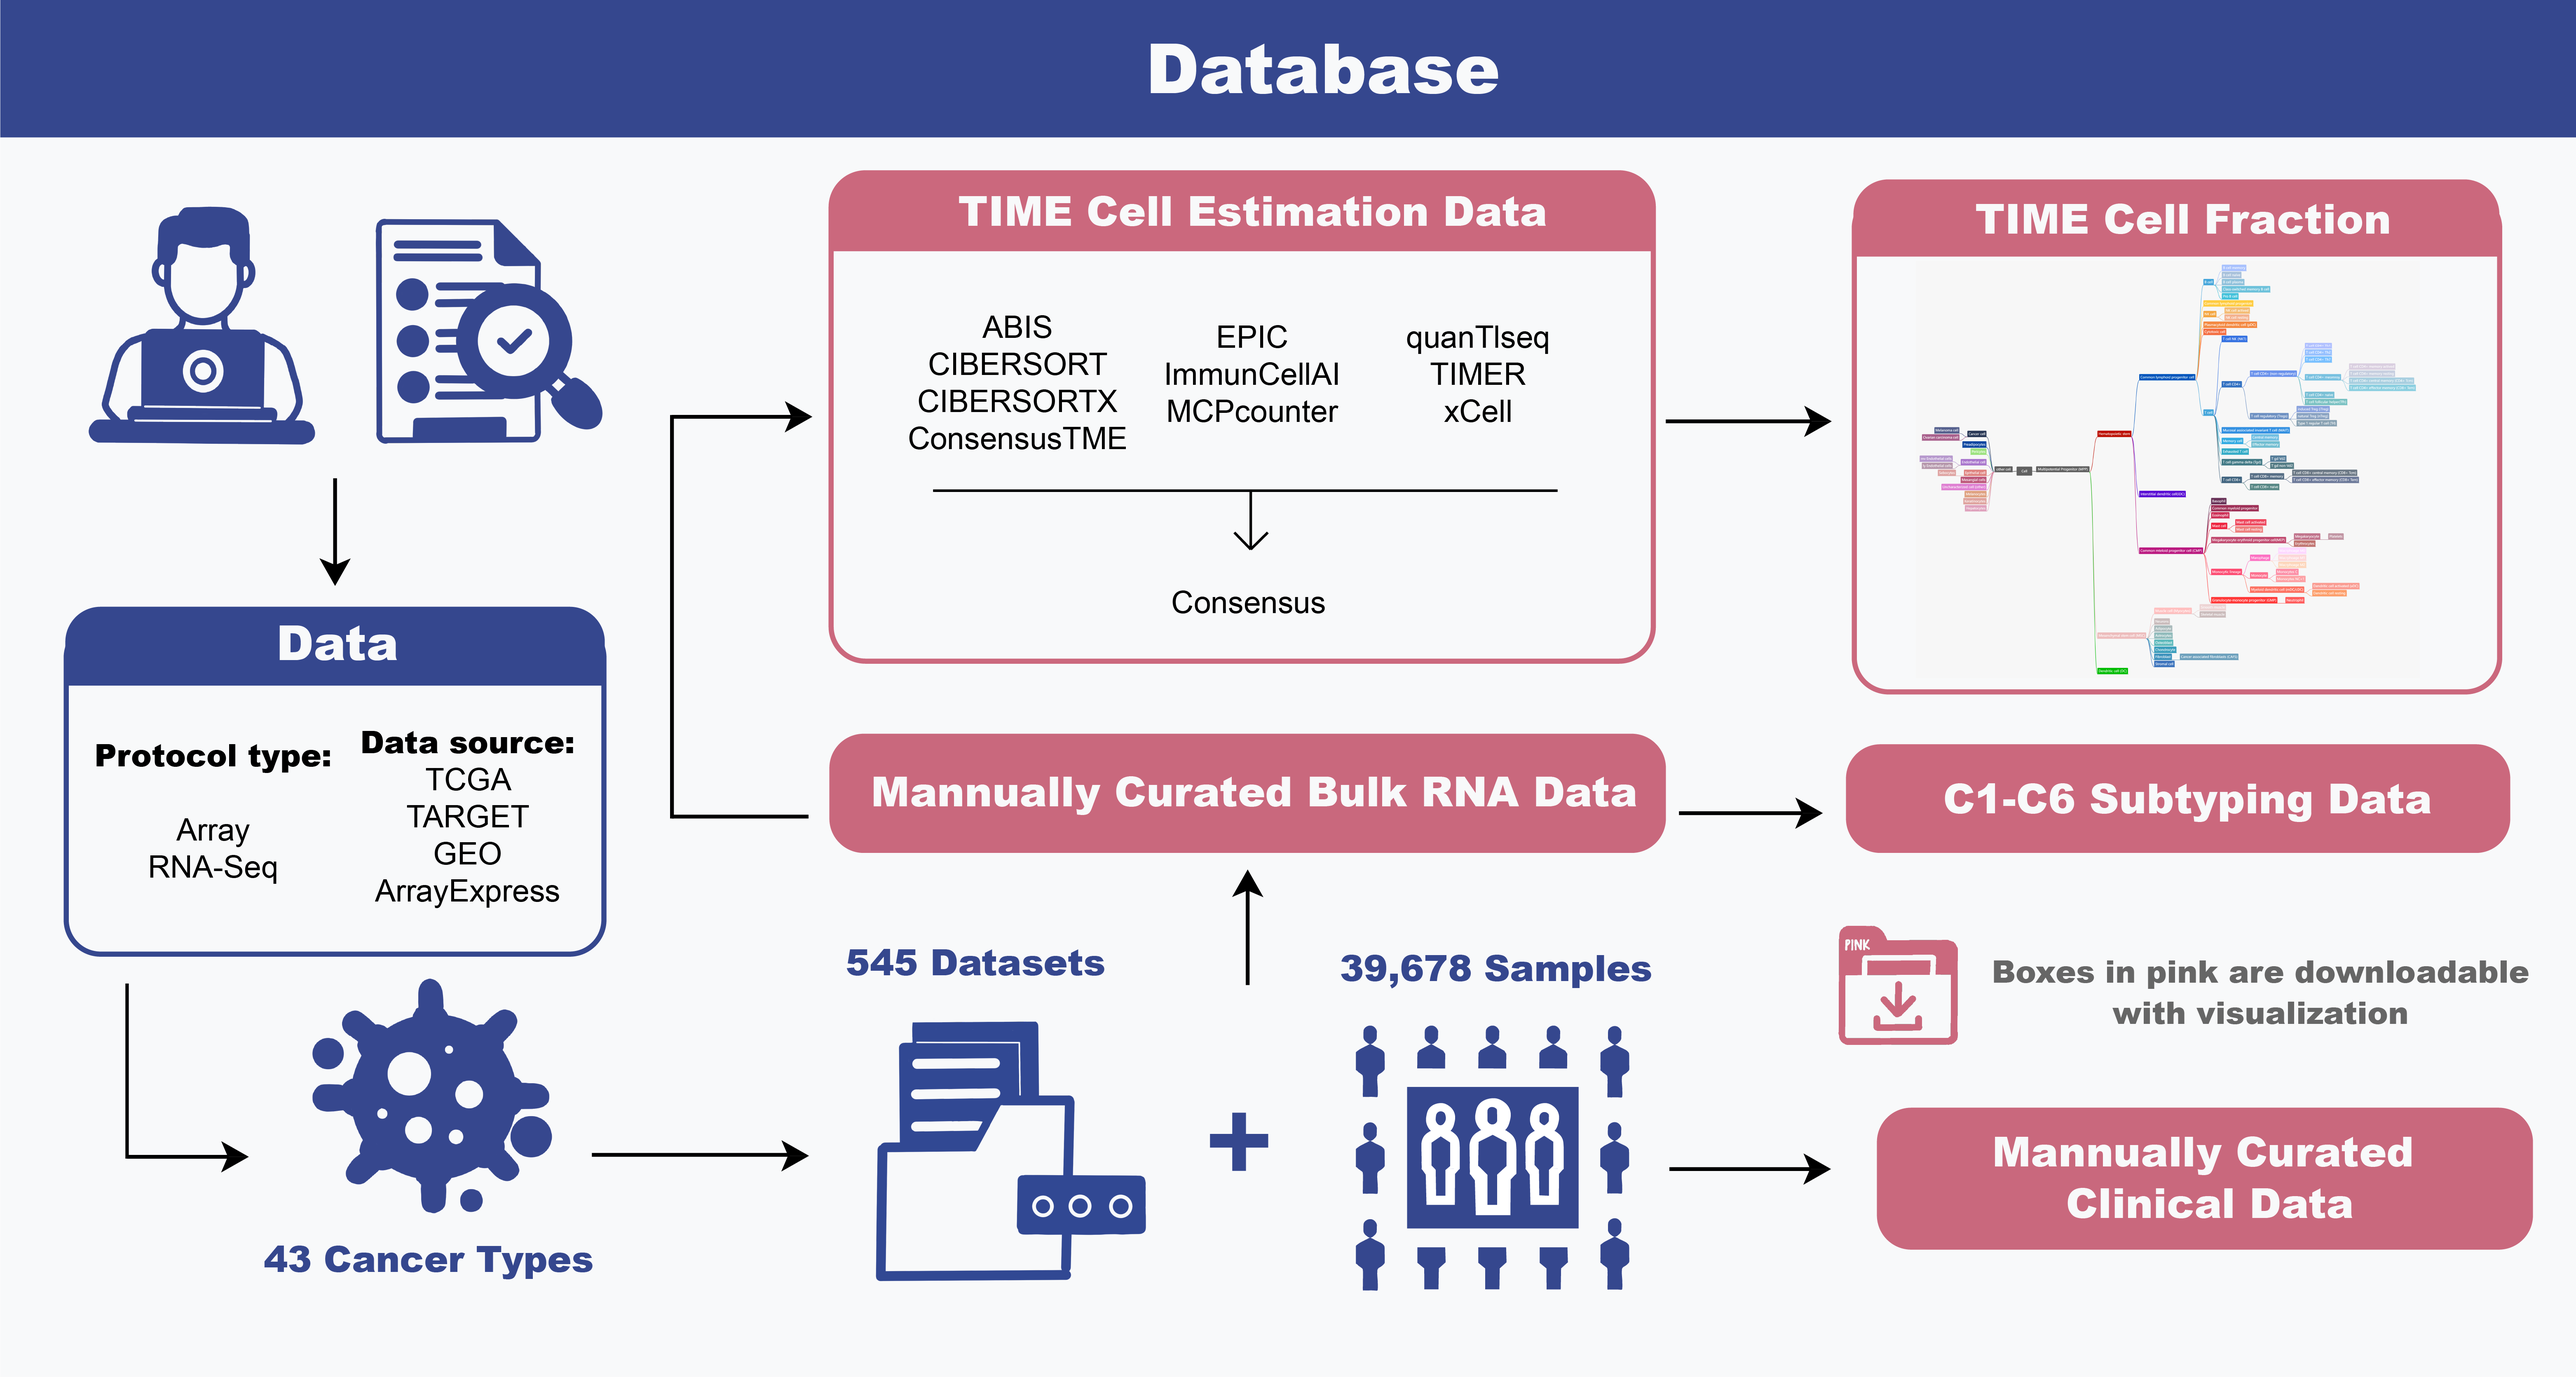
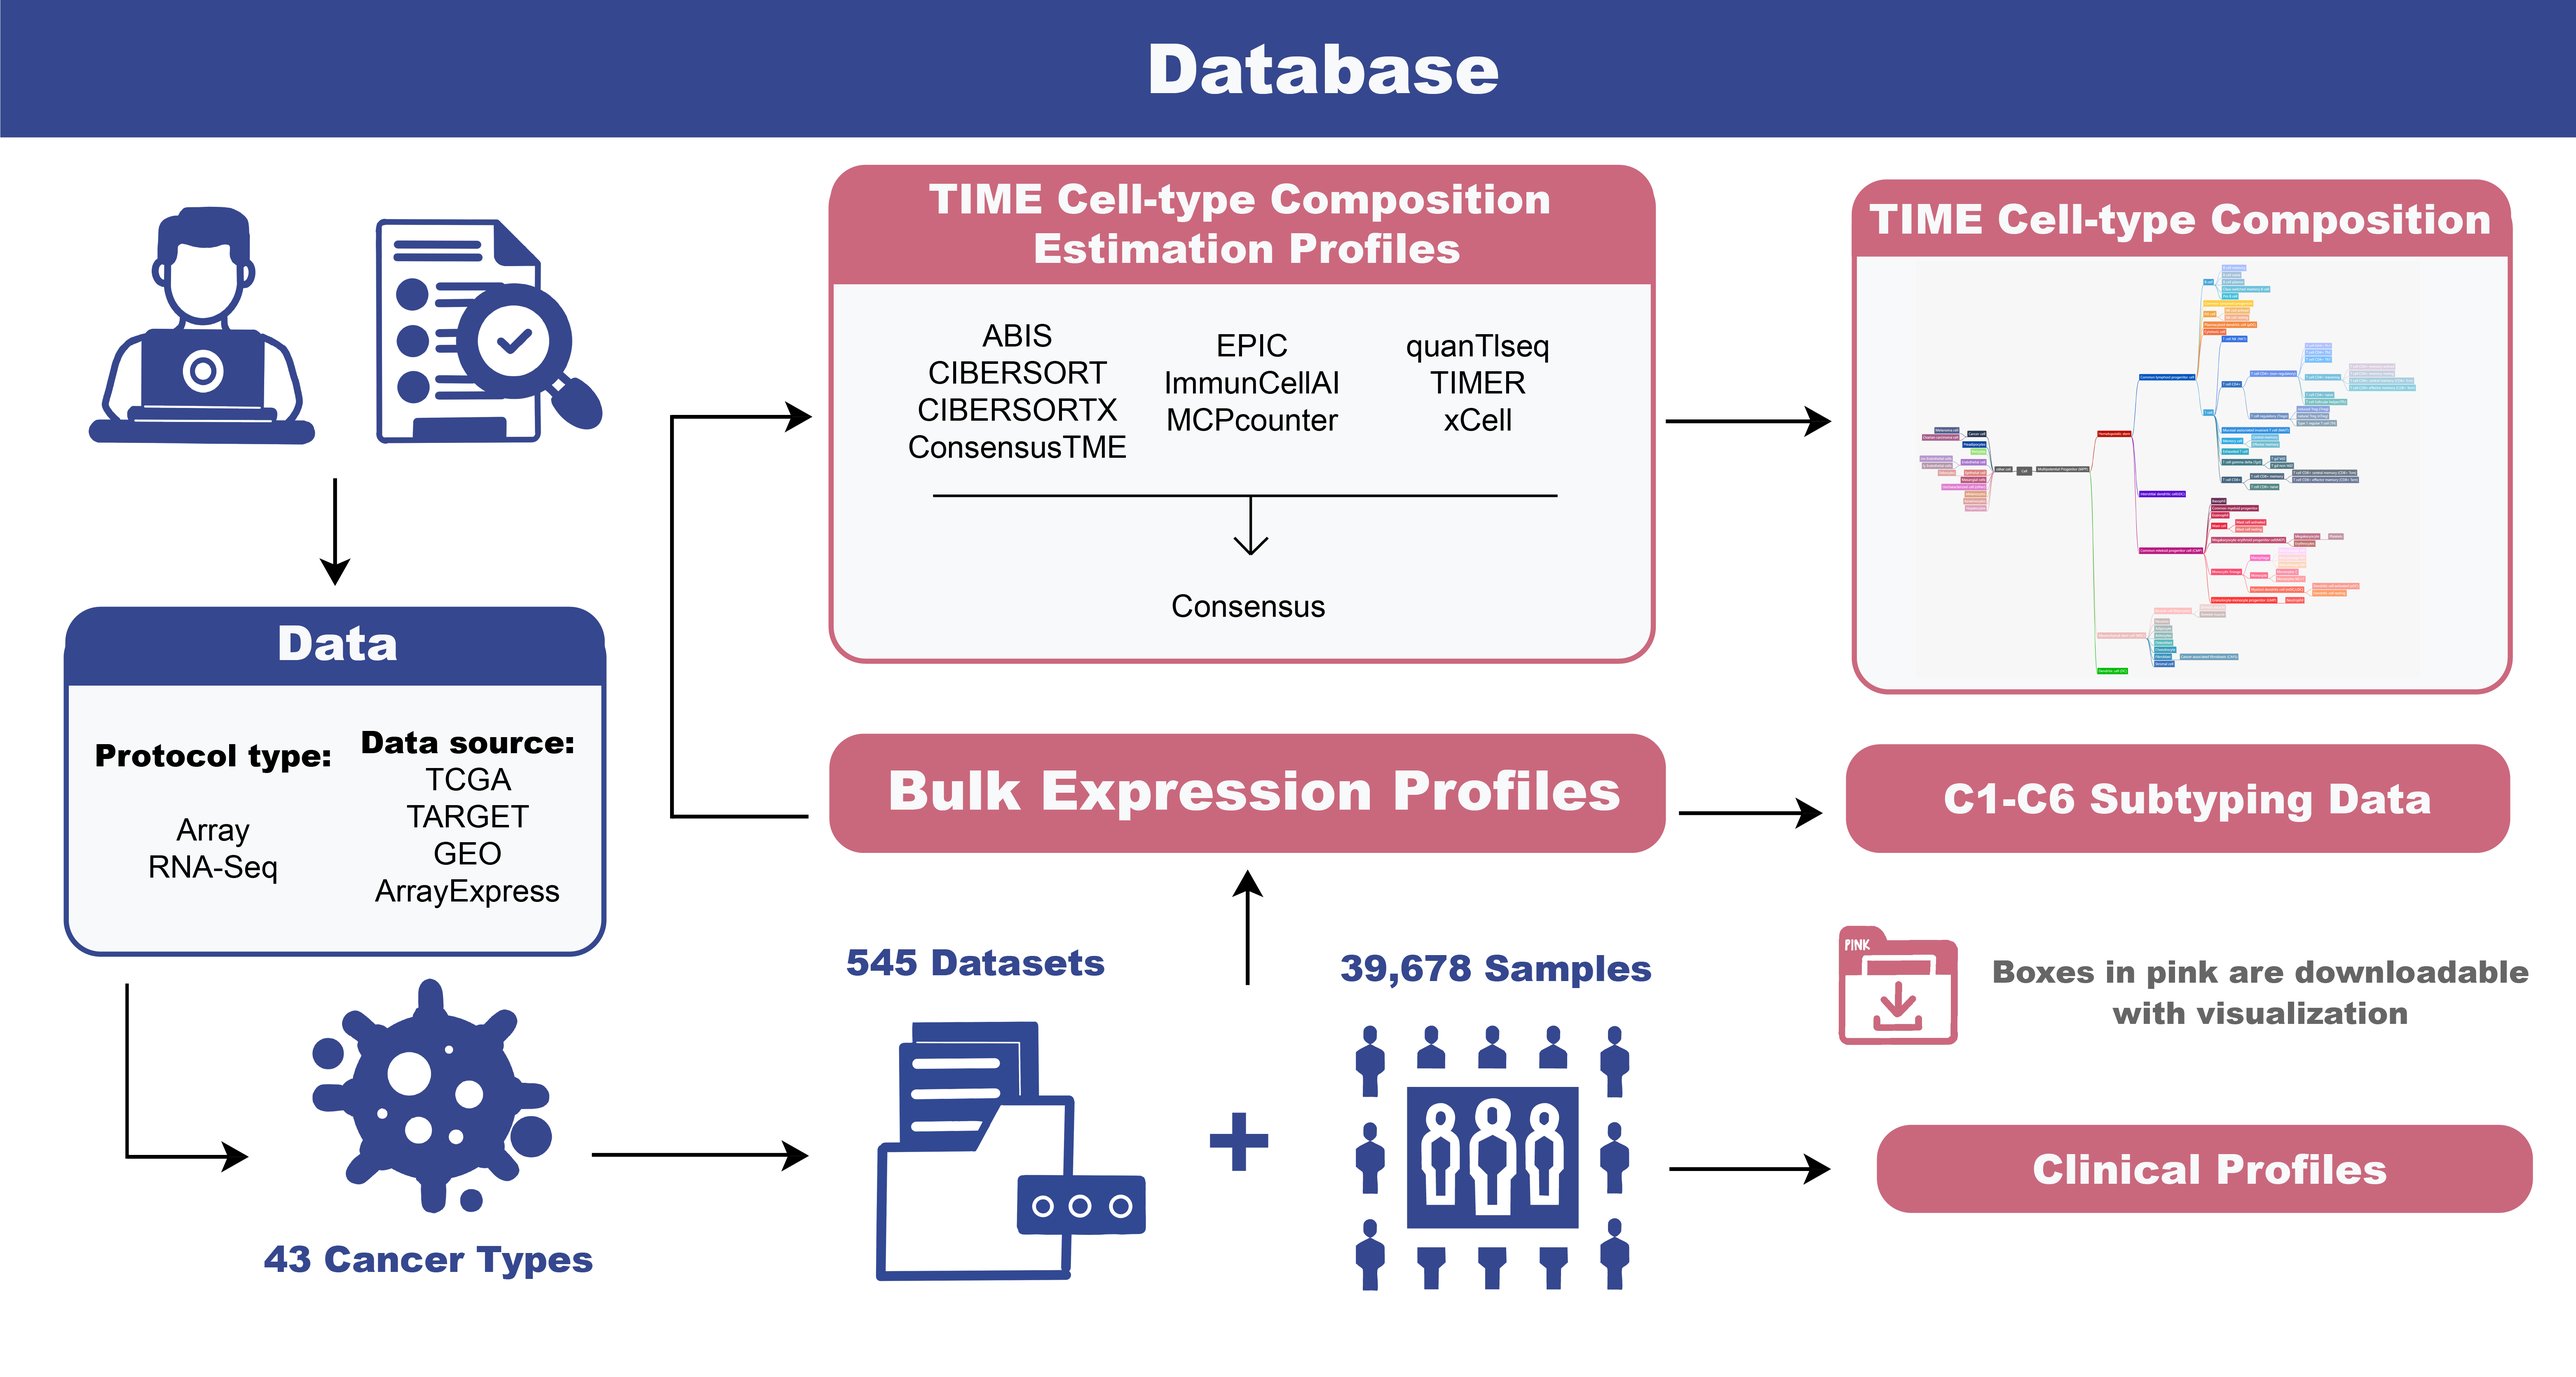
style & image

diff --git a/app/javascript/page/vapp.vue b/app/javascript/page/vapp.vue
@@ -104,7 +104,7 @@
                     context.drawImage(img_to_download,0,0,w,h);
                     const dataURL = canvas.toDataURL('image/png');
                     if (window.navigator.msSaveBlob) {
-                        window.navigator.msSaveBlob(canvas.msToBlob(), `${window.gon.analysis_name || 'demo'}.svg`);
+                        window.navigator.msSaveBlob(canvas.msToBlob(), `${window.gon.analysis_name || 'download'}.png`);
                         //e.preventDefault();
                     } else {
                         const a = document.createElement('a');
@@ -122,7 +122,7 @@
                 const svgUrl = URL.createObjectURL(svgBlob);
                 const downloadLink = document.createElement("a");
                 downloadLink.href = svgUrl;
-                downloadLink.download = `${window.gon.analysis_name || 'demo'}.svg`;
+                downloadLink.download = `${window.gon.analysis_name || 'download'}.svg`;
                 document.body.appendChild(downloadLink);
                 downloadLink.click();
                 document.body.removeChild(downloadLink);

diff --git a/app/javascript/pj-show-subtype.vue b/app/javascript/pj-show-subtype.vue
@@ -68,7 +68,7 @@
         <div id = "subtype-boxplot" class = "container Block">
 
             <div id="boxplotDescription" class="row description">
-                <h4>Dataset C1-C6 Immune Cell Fraction Boxplot</h4>
+                <h4>Dataset C1-C6 TIMEDB Cell-type Composition Boxplot</h4>
             </div>
                 
             <div class="select-bar form-inline row">

diff --git a/app/javascript/vapp-database.vue b/app/javascript/vapp-database.vue
@@ -86,7 +86,7 @@
 
         <div id = "piePlot" class = "container Block">
             <div id="pieDescription" class="row description">
-                <h4>Dataset Immune Cell Fraction Piechart</h4>
+                <h4>Dataset TIMEDB Cell-type Composition Pie Chart</h4>
             </div>
 
             <div class="select-bar form-inline row">

diff --git a/app/assets/stylesheets/tutorial.sass b/app/assets/stylesheets/tutorial.sass
@@ -106,7 +106,13 @@ img
     flex-direction: column
 
 .page-image
-    width: 90%
+    width: 50%
+    display: block
+
+    border: 1px solid #ddd;
+    border-radius: 4px;
+    padding: 5px;
+    margin: 10px
 
 // .sidebar
 //     // overflow: scroll;
